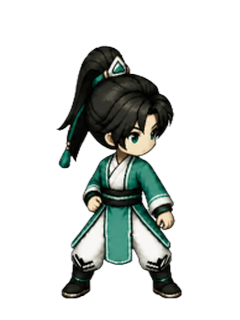
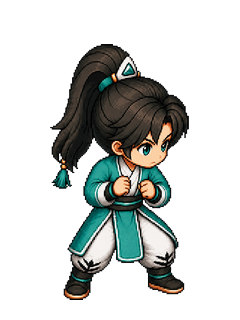
T45 1c 右下普攻候选对通过并准备正式替换

Changed region(s): [[0.2042, 0.125, 0.7875, 0.9375]]

diff --git a/tasks/threads/T45.md b/tasks/threads/T45.md
@@ -25,3 +25,4 @@
 | 2026-09-06 | Leo → Codex（art） | 🎨 1c 右下普攻用户候选待规格确认 | Leo 提供 `codex-clipboard-623ae1cf-49c8-4680-a5f9-e4645bfca453.png`；右下三分之四角度通过视觉候选检查，已归一为 `assets/_trial_20260906/t45_batch1c_codex_native/normalized/atk_rightdown_2_user_candidate1.png`（240×320/脚底 y=300/质心≈120），但当前画面右侧手出拳，与已登记的画面左侧手出拳口径冲突；未入正式目录，待 Leo 明确是否改手位口径。 |
 | 2026-09-06 | Leo → Codex（art） | ✅ 1c 右下普攻手位口径修订 | Leo 明确验收口径改为“角色自身右手出拳”，不再按画面左右描述；当前用户候选虽投影为画面右侧手，但按角色解剖侧通过视觉候选，已记录 `tasks/answers/A2-T45-rightdown-hand.md`，候选标记 selected，规格门仍待研发线 PM。 |
 | 2026-09-06 | Codex（art） → rd | 📤 1c 右下普攻用户候选已交规格门 | commit `8c0ed05` 已推送；projbus `seq=37` / messageId `d499e5b3db754f31ac9ae352217a0214`；手位按角色自身右手，候选 selected，等待研发线 PM 规格门。 |
+| 2026-09-06 | ZCode/Leo → Codex（art） | ✅ 1c 右下普攻候选对门检 PASS | 候选对规格门通过；新 `atk_rightdown_1/2.png` 已准备替换，release manifest/QA 已更新；旧 `atk_rightdown_3.png` 与 `atk_left*` 镜像清理待明确授权后执行，当前 formalRelease 暂保持 false。 |

diff --git a/tasks/LOG.md b/tasks/LOG.md
@@ -4,6 +4,7 @@
 
 | 时间 | 方向 | 事件 | 详情 |
 |------|------|------|------|
+| 2026-09-06 | ZCode/Leo → Codex（art） | ✅ T45 1c 右下普攻候选对门检 PASS | 新 `atk_rightdown_1/2.png` 已准备替换，release manifest/QA 已更新；旧 `atk_rightdown_3.png` 与 `atk_left*` 镜像清理待明确授权，formalRelease 暂保持 false。 |
 | 2026-09-06 | Codex（art） → rd | 📤 T45 1c 右下普攻用户候选已交规格门 | commit `8c0ed05` 已推送；projbus `seq=37` / messageId `d499e5b3db754f31ac9ae352217a0214`；按角色自身右手口径交付，等待研发线 PM 规格门。 |
 | 2026-09-06 | Leo → Codex（art） | ✅ T45 1c 右下普攻手位口径修订 | 口径改为角色自身右手出拳，不再按画面左右描述；当前用户候选已按角色解剖侧通过视觉候选，`A2-T45-rightdown-hand.md`，候选 selected，规格门待研发线 PM。 |
 | 2026-09-06 | Leo → Codex（art） | 🎨 T45 1c 右下普攻用户候选待规格确认 | 候选 `codex-clipboard-623ae1cf-49c8-4680-a5f9-e4645bfca453.png` 的右下三分之四角度通过视觉候选检查；已归一 `assets/_trial_20260906/t45_batch1c_codex_native/normalized/atk_rightdown_2_user_candidate1.png`，但画面右侧手出拳，与现行画面左侧手出拳口径冲突；未入正式目录，待明确是否改口径。 |
